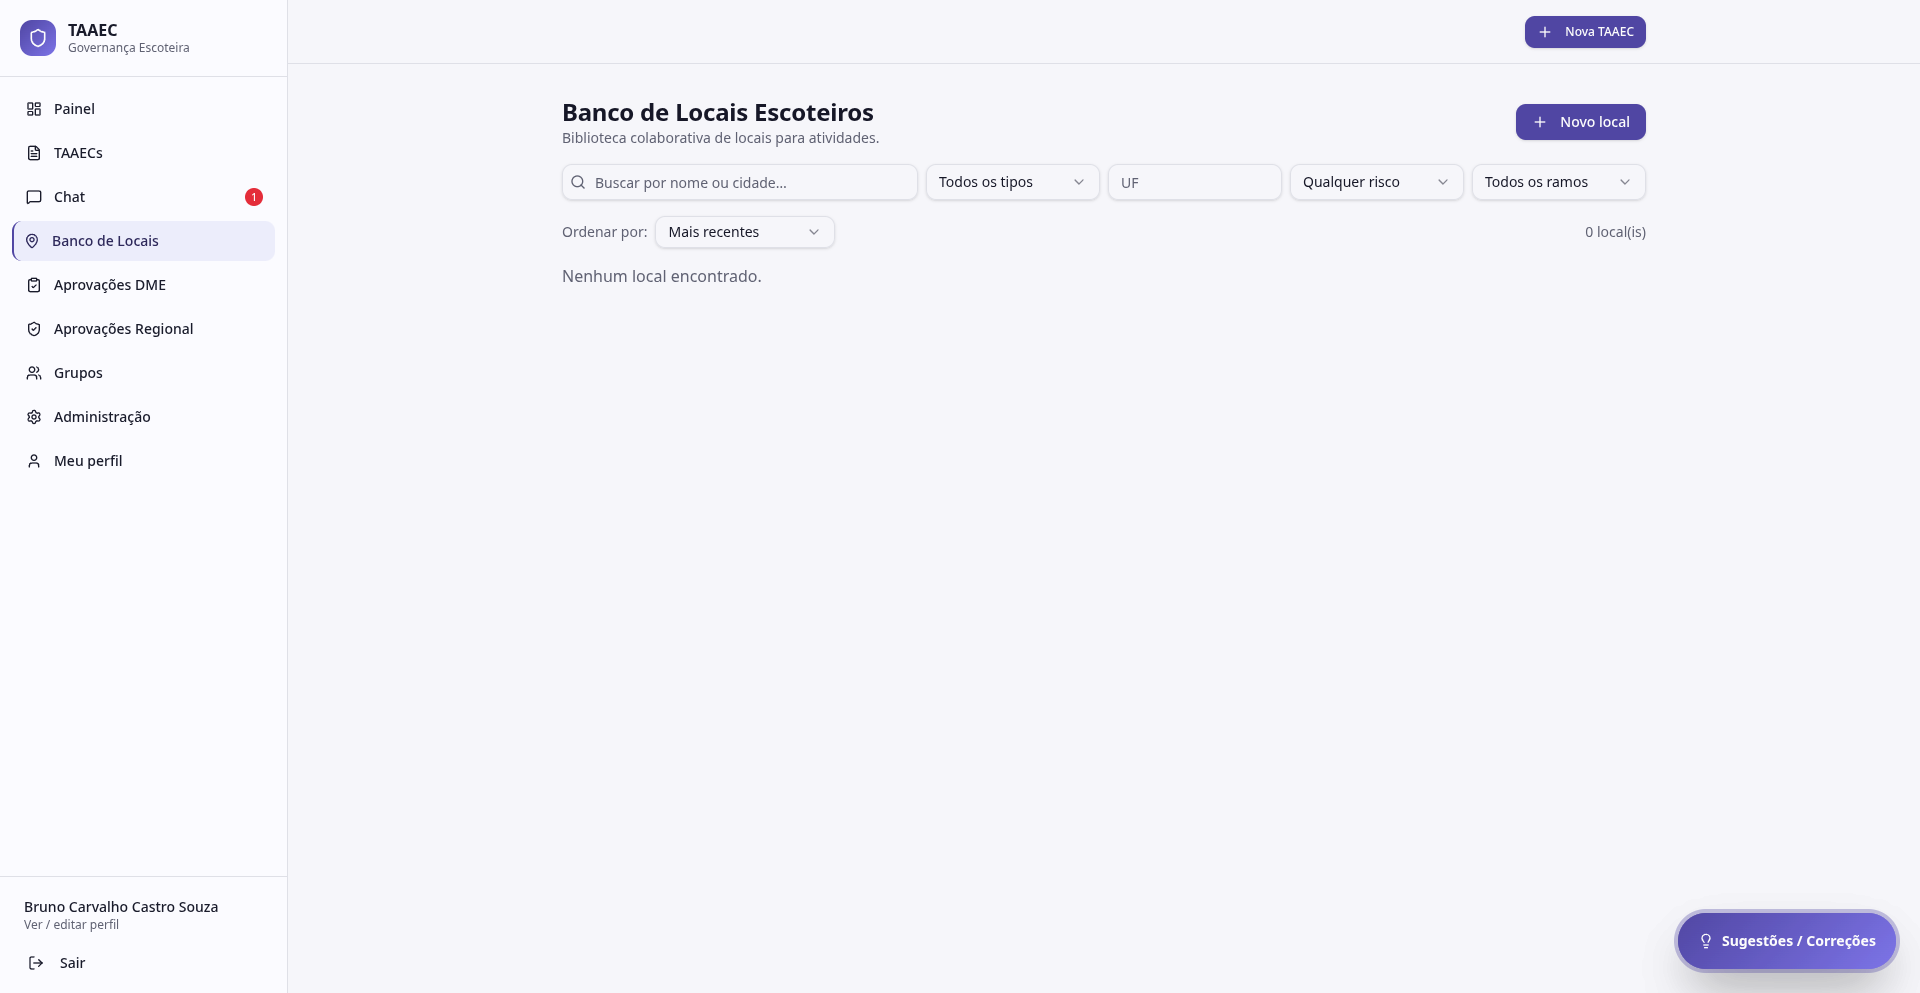
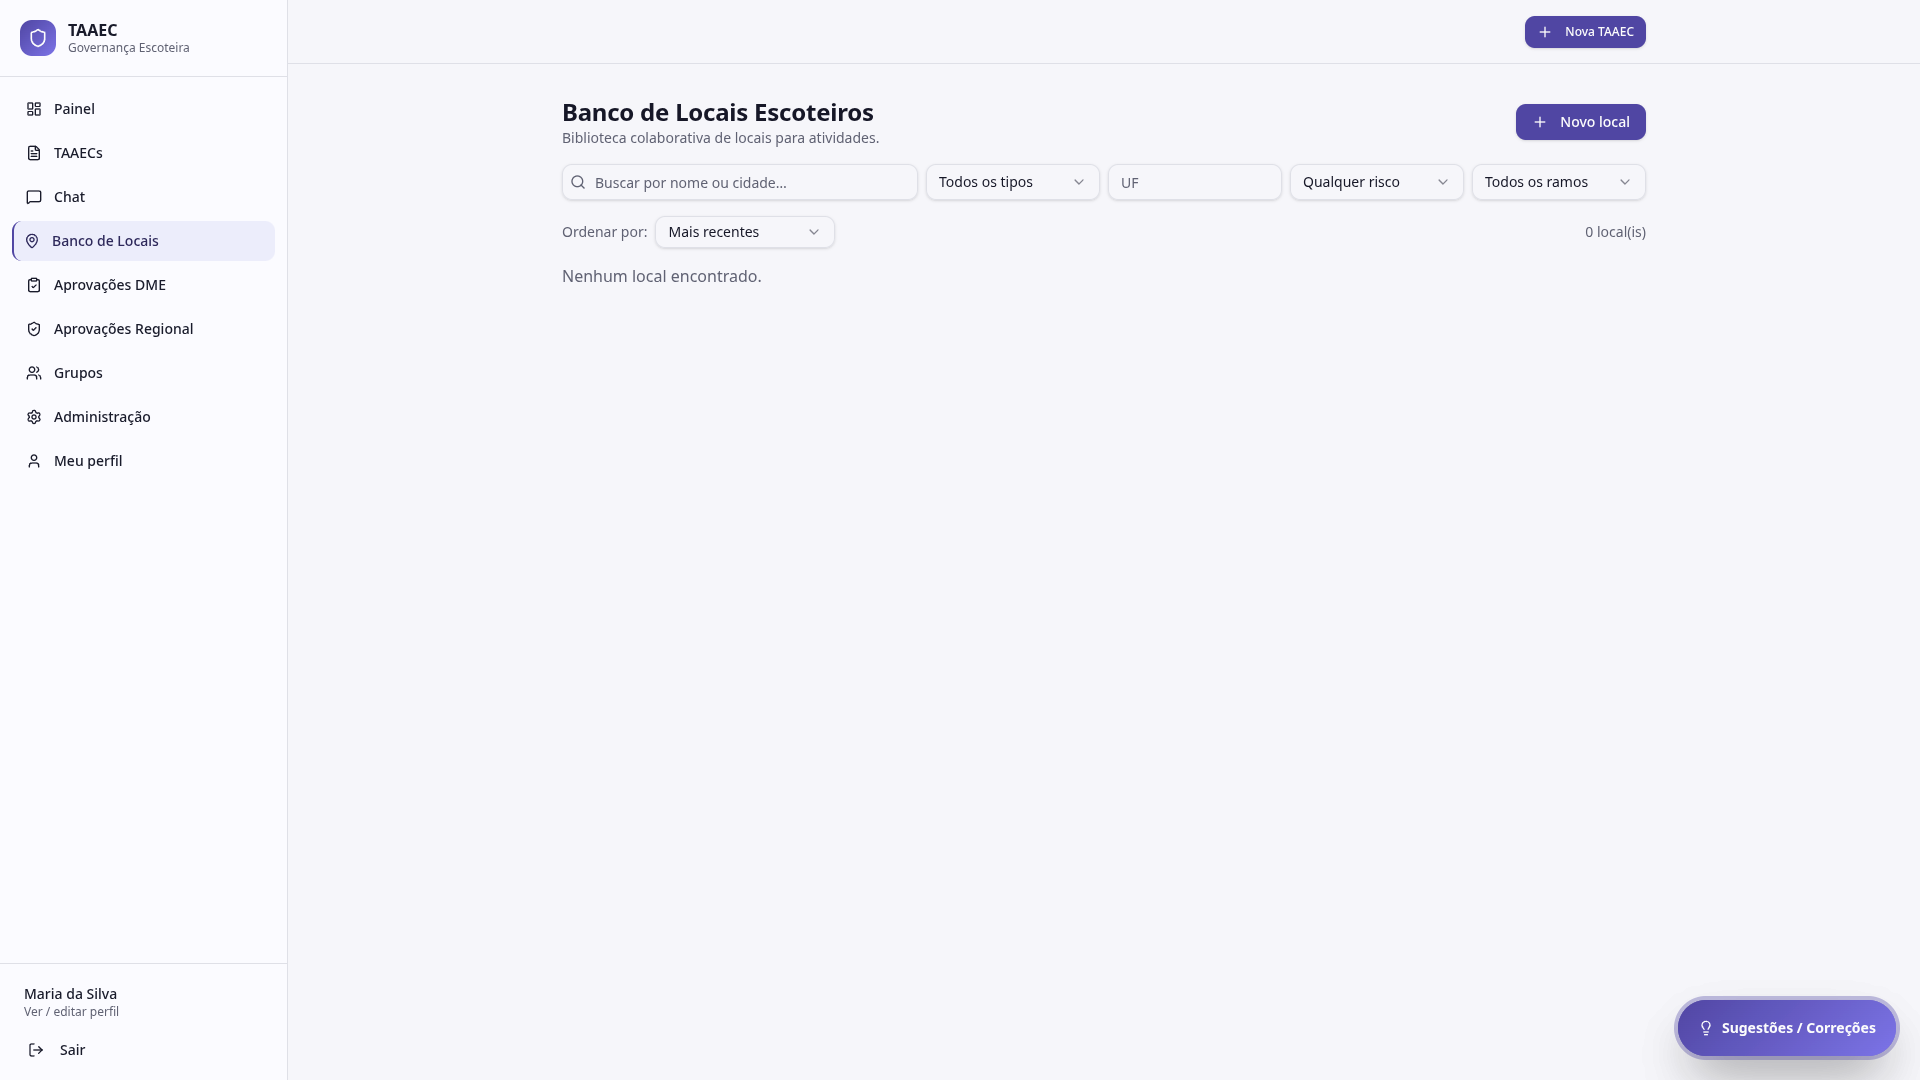
docs: anonimiza dados pessoais nos textos e screenshots
- Substitui nome, e-mail, telefone, registro escoteiro, UUID e grupo
  por dados fictícios (Maria da Silva, GRUPO EXEMPLO etc.) em todos os
  arquivos markdown
- Recaptura 22 dos 24 screenshots com mascaramento JS aplicado no DOM
  antes da captura
- Aplica blur em listas com dados de outros usuários
  (/grupos, /admin/usuarios, /admin/pre-cadastros, /admin/sugestoes)
- Borra valores de tokens/credenciais em /admin/telegram e /admin/email
- Substitui contato institucional por suporte@rit.org.br
- Adiciona scripts/anonymize.js como referência reutilizável

diff --git a/scripts/anonymize.js b/scripts/anonymize.js
@@ -1,0 +1,130 @@
+// scripts/anonymize.js
+// JS executado no Playwright antes de cada screenshot para mascarar dados pessoais.
+// Estratégia:
+//   1. Walk no DOM: substitui texto, value de inputs editáveis, placeholders, atributos
+//   2. Inputs disabled: clona o nó (React perde o fiber) e substitui o value
+//   3. Pos-processamento por label: numeral 11 → 99 no campo "Numeral do grupo"
+//   4. Listas sensíveis (/grupos, /admin/usuarios, /admin/pre-cadastros): blur em containers
+
+(() => {
+  const replacements = [
+    [/Bruno Carvalho Castro Souza/g, 'Maria da Silva'],
+    [/bruno\.souza@rit\.org\.br/g, 'maria.silva@exemplo.org.br'],
+    [/86773d7e-38af-4d21-908e-d42664d407ca/g, '00000000-0000-0000-0000-000000000000'],
+    [/61992780605/g, '61999990000'],
+    [/\b609958-0\b/g, '999999-0'],
+    [/JOSÉ DE ANCHIETA \(11\/3º Distrito\)/g, 'GRUPO EXEMPLO (99/Distrito Demo)'],
+    [/JOSÉ DE ANCHIETA · 11\/3º Distrito/g, 'GRUPO EXEMPLO · 99/Distrito Demo'],
+    [/JOSÉ DE ANCHIETA/g, 'GRUPO EXEMPLO'],
+    [/3º Distrito/g, 'Distrito Demo'],
+    [/\(11\/Distrito/g, '(99/Distrito'],
+    [/LIS DO LAGO/g, 'GRUPO BETA'],
+    [/AcampaGELL/g, 'Acampamento Exemplo'],
+    [/GEJACAMP/g, 'Acampamento Demo'],
+    [/\bHugo\b/g, 'Pedro'],
+    [/\bCamila\b/g, 'Joana'],
+    [/Felipe Terra/g, 'Pessoa Demo'],
+    [/\bGE 11\b/g, 'GE 99'],
+    [/\bGE 15\b/g, 'GE 22'],
+  ];
+
+  const apply = (t) => { let o = t; for (const [re, sub] of replacements) o = o.replace(re, sub); return o; };
+
+  function setInputValue(node, newVal) {
+    const tag = node.tagName.toLowerCase();
+    const proto = tag === 'input' ? window.HTMLInputElement : window.HTMLTextAreaElement;
+    const setter = Object.getOwnPropertyDescriptor(proto.prototype, 'value')?.set;
+    if (setter) {
+      setter.call(node, newVal);
+      node.dispatchEvent(new Event('input', { bubbles: true }));
+    } else {
+      node.value = newVal;
+    }
+  }
+
+  function replaceDisabledInput(node, newVal) {
+    // Clone perde o React fiber, então React não consegue reverter
+    const clone = node.cloneNode(true);
+    clone.value = newVal;
+    clone.setAttribute('value', newVal);
+    node.parentNode.replaceChild(clone, node);
+  }
+
+  function walk(n) {
+    if (!n) return;
+    if (n.nodeType === 3) {
+      const nt = apply(n.nodeValue);
+      if (nt !== n.nodeValue) n.nodeValue = nt;
+      return;
+    }
+    if (n.nodeType !== 1) return;
+    const tag = n.tagName?.toLowerCase();
+    if (tag === 'script' || tag === 'style' || tag === 'noscript') return;
+
+    if (tag === 'input' || tag === 'textarea') {
+      if (n.value) {
+        const nv = apply(n.value);
+        if (nv !== n.value) {
+          if (n.disabled || n.readOnly) {
+            replaceDisabledInput(n, nv);
+            return; // já substituiu o nó, parar walk neste ramo
+          }
+          setInputValue(n, nv);
+        }
+      }
+      if (n.placeholder) {
+        const np = apply(n.placeholder);
+        if (np !== n.placeholder) n.placeholder = np;
+      }
+    }
+
+    ['title', 'alt', 'aria-label'].forEach((a) => {
+      const v = n.getAttribute && n.getAttribute(a);
+      if (v) {
+        const nv = apply(v);
+        if (nv !== v) n.setAttribute(a, nv);
+      }
+    });
+
+    for (const c of Array.from(n.childNodes)) walk(c);
+  }
+
+  walk(document.body);
+
+  // Pós: numeral 11 → 99 no campo "Numeral do grupo"
+  Array.from(document.querySelectorAll('label, [data-slot="label"], div')).forEach((el) => {
+    const txt = el.textContent?.trim() || '';
+    if (txt === 'Numeral do grupo') {
+      const container = el.closest('div');
+      const input = container?.querySelector('input');
+      if (input && input.value === '11') {
+        if (input.disabled || input.readOnly) replaceDisabledInput(input, '99');
+        else setInputValue(input, '99');
+      }
+    }
+  });
+
+  // Listas sensíveis — borrar para preservar privacidade de outros usuários
+  const path = location.pathname;
+  if (path === '/grupos' || path === '/admin/usuarios' || path === '/admin/pre-cadastros') {
+    const main = document.querySelector('main');
+    if (main) {
+      const candidates = main.querySelectorAll('div, ul, table, tbody');
+      candidates.forEach((c) => {
+        if (
+          c.children.length >= 2 &&
+          c.getBoundingClientRect().height > 200 &&
+          (c.tagName === 'UL' ||
+            c.tagName === 'TBODY' ||
+            (c.className && (c.className.includes('list') || c.className.includes('grid'))))
+        ) {
+          c.style.filter = 'blur(8px)';
+          c.style.userSelect = 'none';
+          c.setAttribute('data-anonimizado', 'true');
+        }
+      });
+    }
+  }
+
+  return { ok: true, url: location.pathname };
+})();

diff --git a/docs-publicos/configuracoes/perfil.md b/docs-publicos/configuracoes/perfil.md
@@ -19,7 +19,7 @@ Bloco superior com informações **controladas pelo sistema** (não editáveis):
 
 | Campo | Conteúdo |
 |---|---|
-| **E-mail** | Seu e-mail principal de login (ex: `bruno.souza@rit.org.br`) |
+| **E-mail** | Seu e-mail principal de login (ex: `maria.silva@exemplo.org.br`) |
 | **ID** | Identificador único do seu usuário no banco (UUID) |
 | **Papéis atribuídos** | Lista de papéis ativos (ex: *Admin Mestre*, *Responsável*) |
 
@@ -51,7 +51,7 @@ Bloco editável:
 |---|---|---|
 | Nome completo | ✅ | Como aparece na assinatura institucional |
 | Telefone | ✅ | Sem máscara |
-| Registro escoteiro | ✅ | Formato com hífen (ex: 609958-0) |
+| Registro escoteiro | ✅ | Formato com hífen (ex: 999999-0) |
 | UF | ✅ | Sigla |
 | Numeral do grupo | ✅ | Número do GE |
 | Grupo escoteiro | ✅ | Combo com os grupos cadastrados |

diff --git a/docs-publicos/guia/primeiros-passos.md b/docs-publicos/guia/primeiros-passos.md
@@ -36,12 +36,12 @@ Acesse **Meu perfil** no menu lateral. Preencha:
 
 | Campo | Exemplo | Observação |
 |---|---|---|
-| Nome completo | Bruno Carvalho Castro Souza | Como aparece no registro |
-| Telefone | 61992780605 | Sem máscara, só números |
-| Registro escoteiro | 609958-0 | Formato com hífen |
+| Nome completo | Maria da Silva | Como aparece no registro |
+| Telefone | 61999990000 | Sem máscara, só números |
+| Registro escoteiro | 999999-0 | Formato com hífen |
 | UF | DF | Sigla |
 | Numeral do grupo | 11 | Número do GE |
-| Grupo escoteiro | JOSÉ DE ANCHIETA (11/3º Distrito) | Selecione na lista |
+| Grupo escoteiro | GRUPO EXEMPLO (99/Distrito Demo) | Selecione na lista |
 
 Clique em **Salvar alterações**.
 

diff --git a/docs-publicos/modulos/grupos.md b/docs-publicos/modulos/grupos.md
@@ -22,9 +22,9 @@ Cada grupo escoteiro tem:
 
 | Campo | Descrição |
 |---|---|
-| **Numeral** | Número oficial do GE (ex: 11, 15) |
-| **Nome** | Razão escoteira (ex: JOSÉ DE ANCHIETA) |
-| **Distrito** | Distrito escoteiro ao qual pertence (ex: 3º Distrito) |
+| **Numeral** | Número oficial do GE (ex: 7, 22) |
+| **Nome** | Razão escoteira (ex: GRUPO EXEMPLO) |
+| **Distrito** | Distrito escoteiro ao qual pertence (ex: 5º Distrito) |
 | **UF** | Estado (DF, GO, etc.) |
 | **Status** | Ativo / Inativo |
 | **Admin do grupo** | Usuário(s) com papel `chefe_grupo` / `admin_grupo` no grupo |

diff --git a/README.md b/README.md
@@ -100,4 +100,4 @@ Tudo mais (mkdocs, plugins, tema) é instalado em venv local por `./scripts/depl
 
 ## Licença e contato
 
-© 2026 RIT — Rede de Inovação e Transformação. Para dúvidas ou problemas, use o balão **💬 Sugestões / Correções** dentro do próprio sistema TAAEC ou contate [marcelo.sauguellis@rit.org.br](mailto:marcelo.sauguellis@rit.org.br).
+© 2026 RIT — Rede de Inovação e Transformação. Para dúvidas ou problemas, use o balão **💬 Sugestões / Correções** dentro do próprio sistema TAAEC ou contate [suporte@rit.org.br](mailto:suporte@rit.org.br).

diff --git a/docs-publicos/modulos/painel.md b/docs-publicos/modulos/painel.md
@@ -8,7 +8,7 @@ O **Painel** é a primeira tela após o login — o cockpit consolidado da sua g
 
 ## Cabeçalho
 
-À esquerda, o título **Painel TAAEC**, a frase "Visão consolidada de risco, governança e fluxo de autorização." e o seu nome com o grupo identificado (ex: *JOSÉ DE ANCHIETA · 11/3º Distrito*).
+À esquerda, o título **Painel TAAEC**, a frase "Visão consolidada de risco, governança e fluxo de autorização." e o seu nome com o grupo identificado (ex: *GRUPO EXEMPLO · 99/Distrito Demo*).
 
 À direita, o bloco **Ações rápidas** com atalhos:
 

diff --git a/docs-publicos/index.md b/docs-publicos/index.md
@@ -76,7 +76,7 @@ Acessível a Admin Mestre, Regional e (em algumas seções) Admin de Grupo / Pre
 
 Dúvidas ou problemas? Use o balão **💬 Sugestões / Correções** que aparece no canto inferior direito de qualquer tela — sua mensagem vai direto para a administração já com a tela atual e seu usuário identificados.
 
-Contato institucional: [marcelo.sauguellis@rit.org.br](mailto:marcelo.sauguellis@rit.org.br).
+Contato institucional: [suporte@rit.org.br](mailto:suporte@rit.org.br).
 
 ---
 

diff --git a/docs-publicos/configuracoes/pre-cadastros.md b/docs-publicos/configuracoes/pre-cadastros.md
@@ -44,7 +44,7 @@ Vantagens:
    | Campo | Exemplo | Observação |
    |---|---|---|
    | E-mail | `dme@gejaonline.org` | E-mail que a pessoa usará para se cadastrar |
-   | Grupo | 11 — JOSÉ DE ANCHIETA | Grupo ao qual o papel se vincula |
+   | Grupo | 99 — GRUPO EXEMPLO | Grupo ao qual o papel se vincula |
    | Papel | DME | Papel a aplicar no signup |
    | Observação | "DME 2026 — substituto do João" | Opcional, ajuda triagem |
 

diff --git a/docs-publicos/modulos/taaecs.md b/docs-publicos/modulos/taaecs.md
@@ -19,9 +19,9 @@ A tela **TAAECs** é a lista de todas as autorizações do seu ecossistema. Daqu
 Campo único de busca livre por:
 
 - **Número** (ex: `TAAEC-2026-00001`)
-- **Título** (ex: `AcampaGELL 2026`)
+- **Título** (ex: `Acampamento Exemplo 2026`)
 - **Atividade** (ex: `Fogueira`)
-- **Grupo** (ex: `LIS DO LAGO`)
+- **Grupo** (ex: `GRUPO BETA`)
 - **Numeral** (ex: `15`)
 
 A lista filtra em tempo real conforme você digita.
